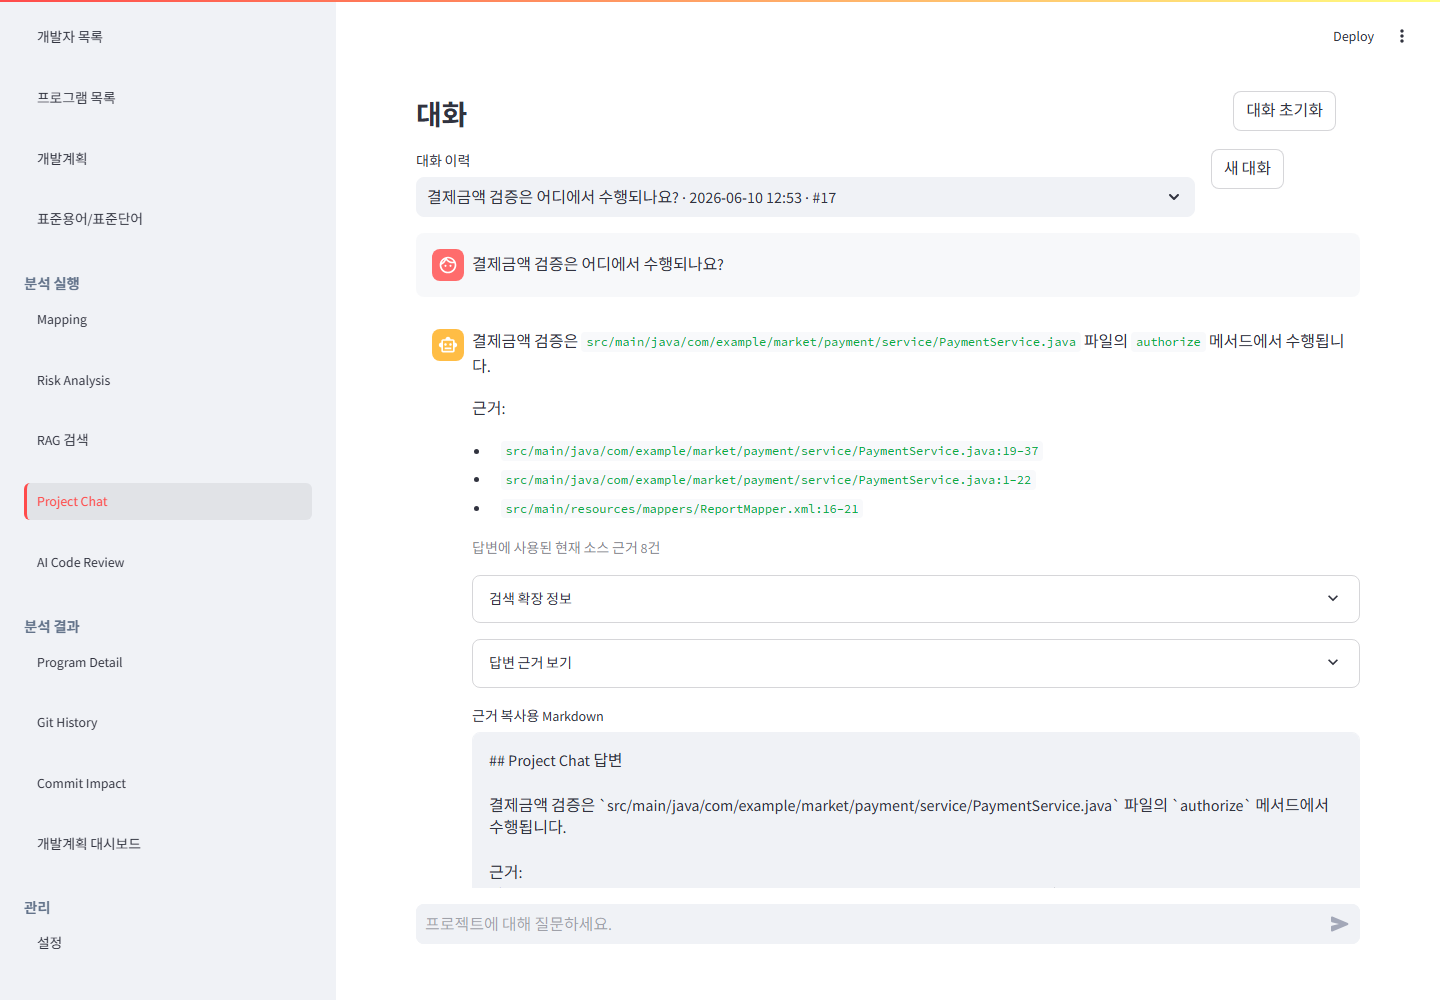
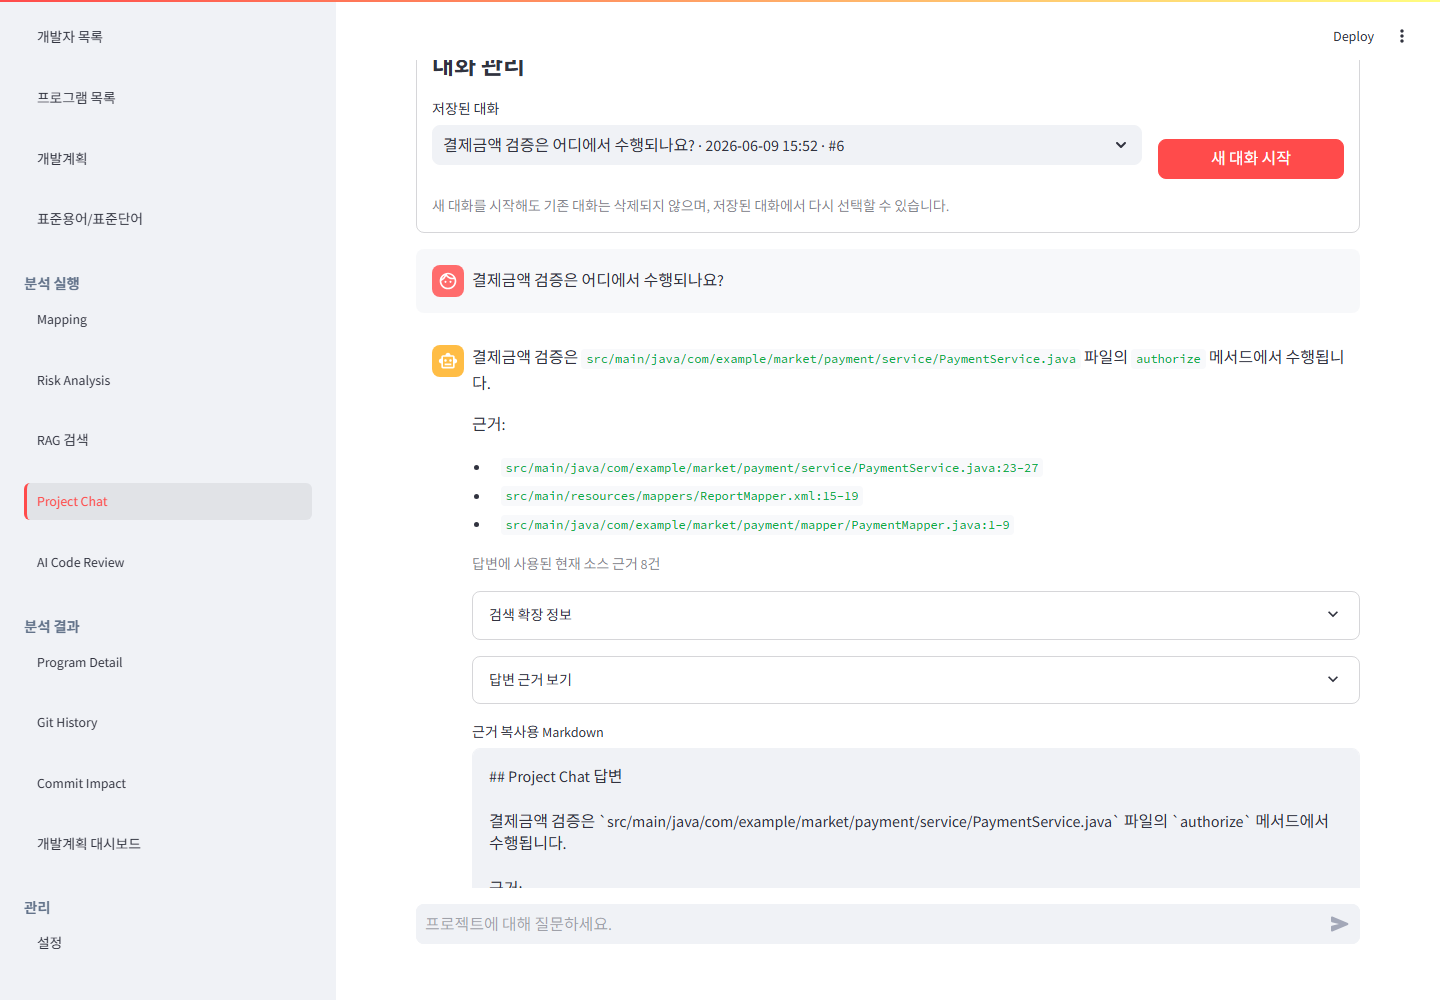
Refine Project Chat conversation controls

diff --git a/src/ui/project_chat_page.py b/src/ui/project_chat_page.py
@@ -258,6 +258,12 @@ def _render_chat_history(messages: list[dict]) -> None:
                 )
 
 
+def _format_session_title(title: str | None) -> str:
+    if not title or title == "새 대화":
+        return "빈 대화"
+    return title
+
+
 def _render_chat_session_selector(project_id: int) -> tuple[int | None, list[dict]]:
     active_key = _active_session_key(project_id)
     with SessionLocal() as db:
@@ -271,20 +277,28 @@ def _render_chat_session_selector(project_id: int) -> tuple[int | None, list[dic
             st.session_state[active_key] = active_session_id
 
     session_options = {
-        f"{session.title or '새 대화'} · {session.last_message_at.strftime('%Y-%m-%d %H:%M') if session.last_message_at else '-'} · #{session.id}": session.id
+        (
+            f"{_format_session_title(session.title)} · "
+            f"{session.last_message_at.strftime('%Y-%m-%d %H:%M') if session.last_message_at else '-'} · "
+            f"#{session.id}"
+        ): session.id
         for session in sessions
     }
     labels = list(session_options.keys())
     selected_index = max(0, [session_options[label] for label in labels].index(st.session_state[active_key]))
-    col1, col2 = st.columns([5, 1])
-    selected_label = col1.selectbox("대화 이력", labels, index=selected_index)
-    st.session_state[active_key] = session_options[selected_label]
+    with st.container(border=True):
+        st.markdown("#### 대화 관리")
+        history_col, action_col = st.columns([5, 1.35])
+        selected_label = history_col.selectbox("저장된 대화", labels, index=selected_index)
+        st.session_state[active_key] = session_options[selected_label]
 
-    if col2.button("새 대화"):
-        with SessionLocal() as db:
-            session = create_chat_session(db, project_id)
-            st.session_state[active_key] = session.id
-        st.rerun()
+        action_col.markdown("&nbsp;", unsafe_allow_html=True)
+        if action_col.button("새 대화 시작", type="primary", use_container_width=True):
+            with SessionLocal() as db:
+                session = create_chat_session(db, project_id)
+                st.session_state[active_key] = session.id
+            st.rerun()
+        st.caption("새 대화를 시작해도 기존 대화는 삭제되지 않으며, 저장된 대화에서 다시 선택할 수 있습니다.")
 
     with SessionLocal() as db:
         session = get_chat_session(db, project_id, int(st.session_state[active_key]))
@@ -311,14 +325,7 @@ def render_project_chat_page() -> None:
     include_history = control2.checkbox("커밋 이력도 참고에 포함", value=False)
 
     st.divider()
-    chat_header, chat_action = st.columns([6, 1])
-    chat_header.subheader("대화")
-    if chat_action.button("대화 초기화"):
-        with SessionLocal() as db:
-            session = create_chat_session(db, project_id)
-            st.session_state[_active_session_key(project_id)] = session.id
-        st.rerun()
-
+    st.subheader("대화")
     active_session_id, messages = _render_chat_session_selector(project_id)
     _render_chat_history(messages)
 

diff --git a/scripts/capture_feature_screenshot.py b/scripts/capture_feature_screenshot.py
@@ -58,6 +58,9 @@ SCENARIOS: dict[str, FeatureScenario] = {
         required_texts=(
             "Project Chat",
             "현재 소스 파일에서 검증된 RAG 근거로 프로젝트 질문에 답합니다.",
+            "대화 관리",
+            "저장된 대화",
+            "새 대화 시작",
         ),
         forbidden_texts=(),
         default_screenshot="docs/images/features/project-chat.png",

diff --git a/ROADMAP.md b/ROADMAP.md
@@ -74,6 +74,7 @@
 | P2 | UX / Data Model | Project developer membership model | Done | 프로젝트 개발자 연결 모델 | 8f4ad22 |
 | P2 | Code Review UX | AI Code Review server repository target wording | Done | AI Code Review 서버 저장소 대상 설명 정리 | 1023c11 |
 | P1 | Resource Analytics | Resource metric snapshot and trend dashboard | Done | 자원관리 지표 시계열 snapshot과 추세 분석 | 02421b7 |
+| P2 | Project Chat UX | Project Chat conversation controls cleanup | Done | Project Chat 대화 관리 UX 정리 |  |
 
 ## Candidate Tasks
 
@@ -85,6 +86,24 @@ These items are known follow-up concerns, not approved implementation tasks. Kee
 | P2 | UX | Program management project flow cleanup | `프로그램 관리` now defaults to the global current project, but it still keeps an explicit `새 프로젝트명으로 저장` option for legacy upload/create flows. This preserves compatibility but makes the page slightly less direct than other project-scoped screens. | Consider making program management strictly current-project based and moving new project creation to `프로젝트/Git 설정`. If keeping the exception, make the create-new-project path visually secondary and explain when it should be used. | Check sample data and Excel upload workflows before removing the exception. |
 | P2 | Demo / Data UX | Project reset action after delete flow | The new demo user guide is easiest to repeat when a sample project can be removed or reset without wiping the whole database. Project deletion solves the clean-slate case, but operators may later want to keep project name/path and clear only collected analysis data. | After project deletion is stable, consider a project reset action that keeps project name/path but clears Git sync, mappings, risks, RAG, chat, and review results. Keep this separate from the initial delete flow so reset policy choices do not block the safer cleanup feature. | Do not start until project deletion impact counts, cascade behavior, and current-project recovery are verified. Decide whether artifact data such as programs, plans, and standard terms should be preserved or cleared by default. |
 | P3 | Git Ops | Server-managed clone/fetch workflow | In a later server deployment, operators may prefer registering a remote URL and branch so the app server manages clone/fetch instead of requiring a pre-cloned repository path. | Add remote URL, branch, repository storage path, sync lock, and fetch/reset workflow after the server-path model is stable. | Requires credential storage and permission decisions. Do not start without an engineering decision and security review. |
+
+## P2 - Project Chat Conversation Controls Cleanup
+
+Status: Done
+
+Goal:
+Make Project Chat conversation controls feel intentional by removing duplicated "reset/new chat" actions and grouping session selection with the new conversation action.
+
+Rationale:
+`대화 초기화` and `새 대화` both created a new chat session, so users could read them as different destructive and non-destructive actions even though neither deleted history. A single conversation management area should make the saved-session model clearer.
+
+Checklist:
+
+- [x] Replace the separate reset button with one `새 대화 시작` action beside the session selector.
+- [x] Clarify the session selector labels and empty-session wording.
+- [x] Update user-facing docs and Application Preview wording/screenshot.
+- [x] Update `AI_CHANGELOG.md`.
+- [x] Verify with compile/test and browser/screenshot checks.
 
 ## P1 - Resource Metric Snapshot And Trend Dashboard
 

diff --git a/AI_CHANGELOG.md b/AI_CHANGELOG.md
@@ -2,6 +2,15 @@
 
 ## 2026-06-14
 
+### Project Chat 대화 관리 UX 정리
+
+- Project Chat의 `대화 초기화`와 `새 대화`가 모두 새 session을 만드는 중복 액션으로 보이던 문제를 정리했습니다.
+- 별도 header action을 제거하고, `대화 관리` 영역 안에서 `저장된 대화` 선택과 `새 대화 시작`을 함께 배치했습니다.
+- 빈 session은 선택 목록에서 `빈 대화`로 표시해 새 대화 생성 버튼과 혼동되지 않도록 했습니다.
+- feature guide, setup/operations, Application Preview 설명과 screenshot capture 기준을 새 UI 문구로 갱신하고 Project Chat screenshot을 갱신했습니다.
+- 주요 파일: `src/ui/project_chat_page.py`, `scripts/capture_feature_screenshot.py`, `docs/images/features/project-chat.png`, `docs/feature-guide.md`, `docs/setup-and-operations.md`, `docs/application-preview.md`, `ROADMAP.md`, `AI_CHANGELOG.md`.
+- 검증: `.\.venv\Scripts\python.exe -m py_compile src\ui\project_chat_page.py scripts\capture_feature_screenshot.py` 통과; `.\.venv\Scripts\python.exe -m compileall src app.py tests scripts\capture_feature_screenshot.py` 통과; `.\.venv\Scripts\python.exe -m pytest tests\test_project_chat_history_service.py tests\test_project_chat_service.py -q` 6개 테스트 통과; `.\.venv\Scripts\python.exe -m pytest -q` 106개 테스트 통과; Browser에서 `대화 관리`, `저장된 대화`, `새 대화 시작` 렌더링과 `대화 초기화` 미노출 확인; `.\.venv\Scripts\python.exe scripts\capture_feature_screenshot.py --feature project-chat --url http://localhost:8501 --project-name "AAA Sample Shop Rich Demo (4)" --surface local` 통과; `git diff --check` 통과.
+
 ### 자원관리 지표 시계열 snapshot과 추세 분석
 
 - `resource_metric_snapshots` 테이블과 Alembic migration을 추가해 Dashboard 자원관리 지표의 기준 시점 snapshot을 저장할 수 있게 했습니다.

diff --git a/docs/setup-and-operations.md b/docs/setup-and-operations.md
@@ -391,7 +391,7 @@ LM Studio 같은 로컬 embedding 서버는 한 번에 많은 chunk를 처리하
 - embedding API 호출은 `RAG 검색 > Embedding` 또는 RAG Index 화면에서 사용자가 명시적으로 선택한 제한 수량에서만 발생합니다.
 - embedding provider/model/dimension을 바꾸면 기존 vector를 조용히 재사용하지 말고 현재 model 기준 missing vector를 다시 생성하세요.
 
-Project Chat 대화는 프로젝트별 DB session으로 저장됩니다. `새 대화`와 `대화 초기화`는 기존 이력을 삭제하지 않고 새 session을 만들며, 이전 session은 `대화 이력`에서 다시 선택할 수 있습니다.
+Project Chat 대화는 프로젝트별 DB session으로 저장됩니다. `대화 관리`에서 저장된 대화를 선택할 수 있고, `새 대화 시작`은 기존 이력을 삭제하지 않고 새 session을 만듭니다. 이전 session은 `저장된 대화`에서 다시 선택할 수 있습니다.
 
 재인덱싱이나 embedding 중 앱 또는 LM Studio를 강제 종료하면 PostgreSQL은 열린 transaction을 롤백합니다. 다만 이미 commit된 chunk/vector와 아직 처리되지 않은 chunk가 섞여 `pending` 또는 `failed` 상태가 남을 수 있습니다. 이 상태는 부분 완료 상태이며, RAG 화면에서 인덱스 상태를 확인한 뒤 embedding을 제한 수량으로 이어서 실행하면 됩니다.
 
@@ -456,7 +456,7 @@ README 또는 Application Preview에 들어갈 기능 캡처를 갱신할 때는
 
 기본 저장 위치는 `docs/images/features/<feature>.png`입니다. 임시 확인용으로 저장하려면 `--screenshot .tmp/project-chat-check.png`처럼 별도 경로를 지정합니다.
 
-큰 기능 변경 후 화면 캡처를 갱신할 때는 빈 화면보다 기능 가치가 드러나는 상태를 사용합니다. 예를 들어 Project Chat은 sample project, 대화 이력, 질문, 답변 근거가 보이는 상태에서 캡처해야 합니다. 현재 실행 surface를 남기려면 `--surface local` 또는 `--surface docker`를 명시합니다.
+큰 기능 변경 후 화면 캡처를 갱신할 때는 빈 화면보다 기능 가치가 드러나는 상태를 사용합니다. 예를 들어 Project Chat은 sample project, 대화 관리, 질문, 답변 근거가 보이는 상태에서 캡처해야 합니다. 현재 실행 surface를 남기려면 `--surface local` 또는 `--surface docker`를 명시합니다.
 
 ```powershell
 .\.venv\Scripts\python.exe scripts\capture_feature_screenshot.py --feature project-chat --surface docker --expect-text "결제금액 검증은 어디에서 수행되나요?" --expect-text "PaymentService.java" --forbid-text "현재 검증된 소스 근거만으로는 답변하기 어렵습니다"

diff --git a/docs/application-preview.md b/docs/application-preview.md
@@ -150,7 +150,7 @@
 <details>
 <summary>Project Chat</summary>
 
-저장된 대화 이력, 현재 소스 근거가 포함된 답변, 근거 복사용 Markdown을 함께 보여주는 Project Chat 상태입니다.
+정리된 대화 관리 영역, 저장된 대화 선택, 현재 소스 근거가 포함된 답변, 근거 복사용 Markdown을 함께 보여주는 Project Chat 상태입니다.
 
 ![Project Chat](images/features/project-chat.png)
 